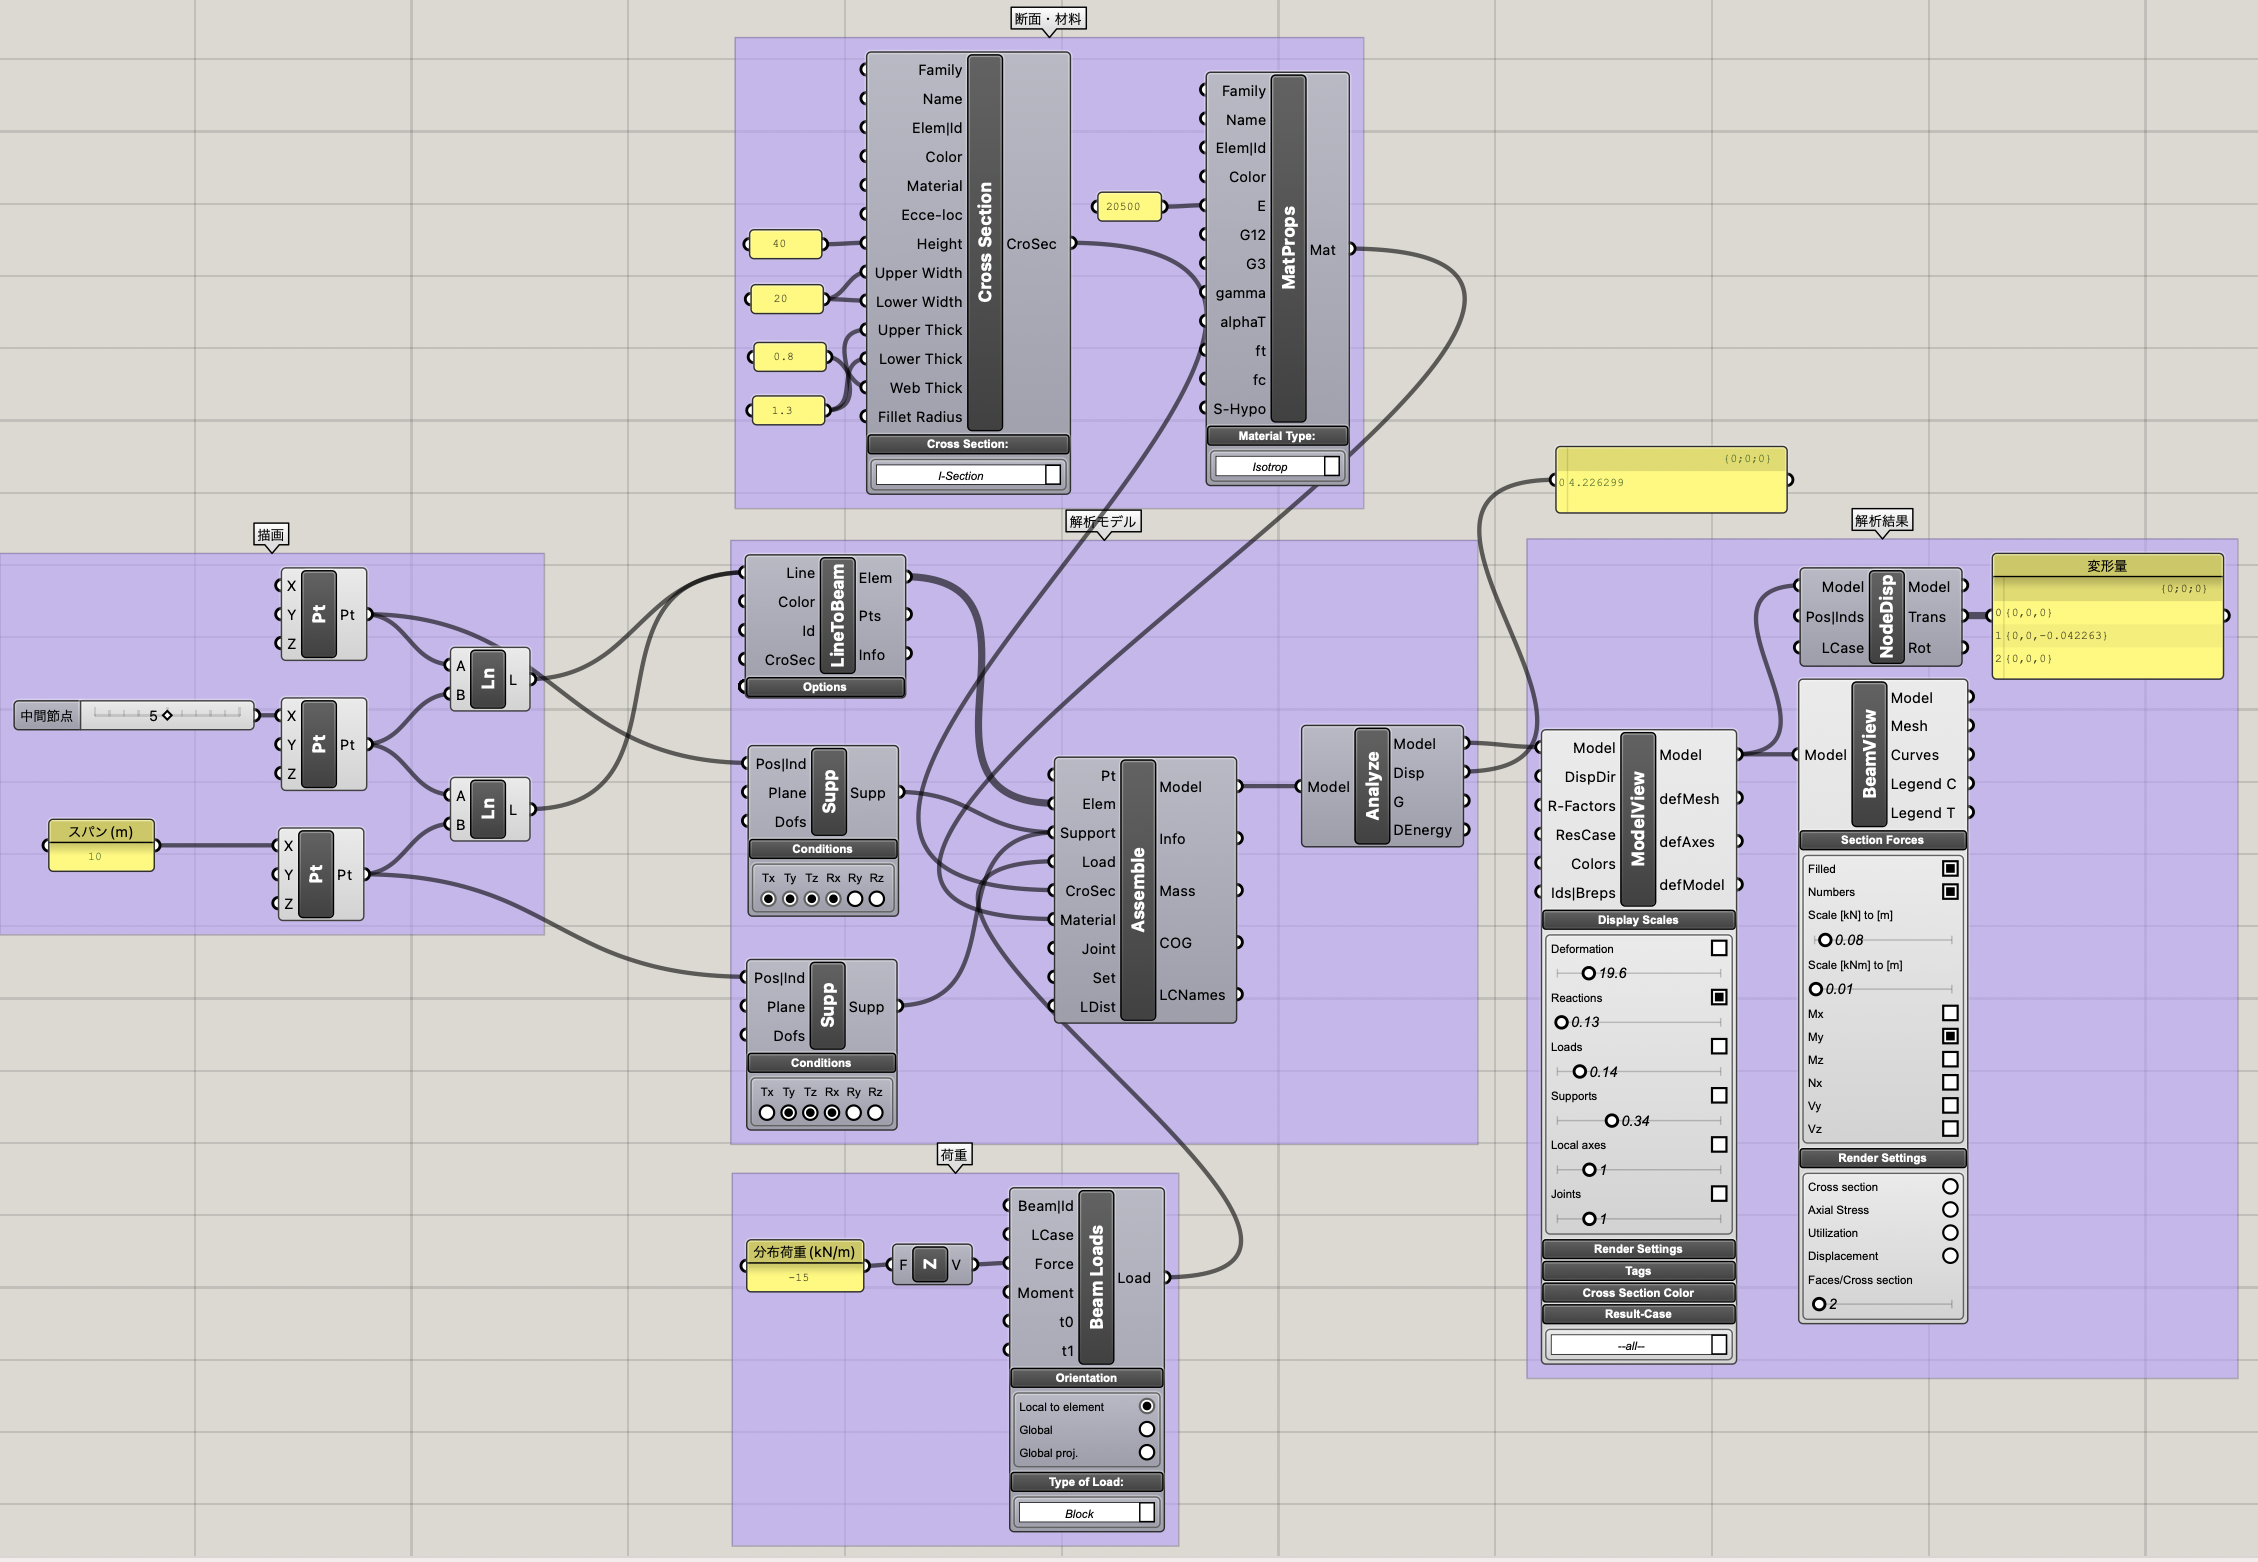
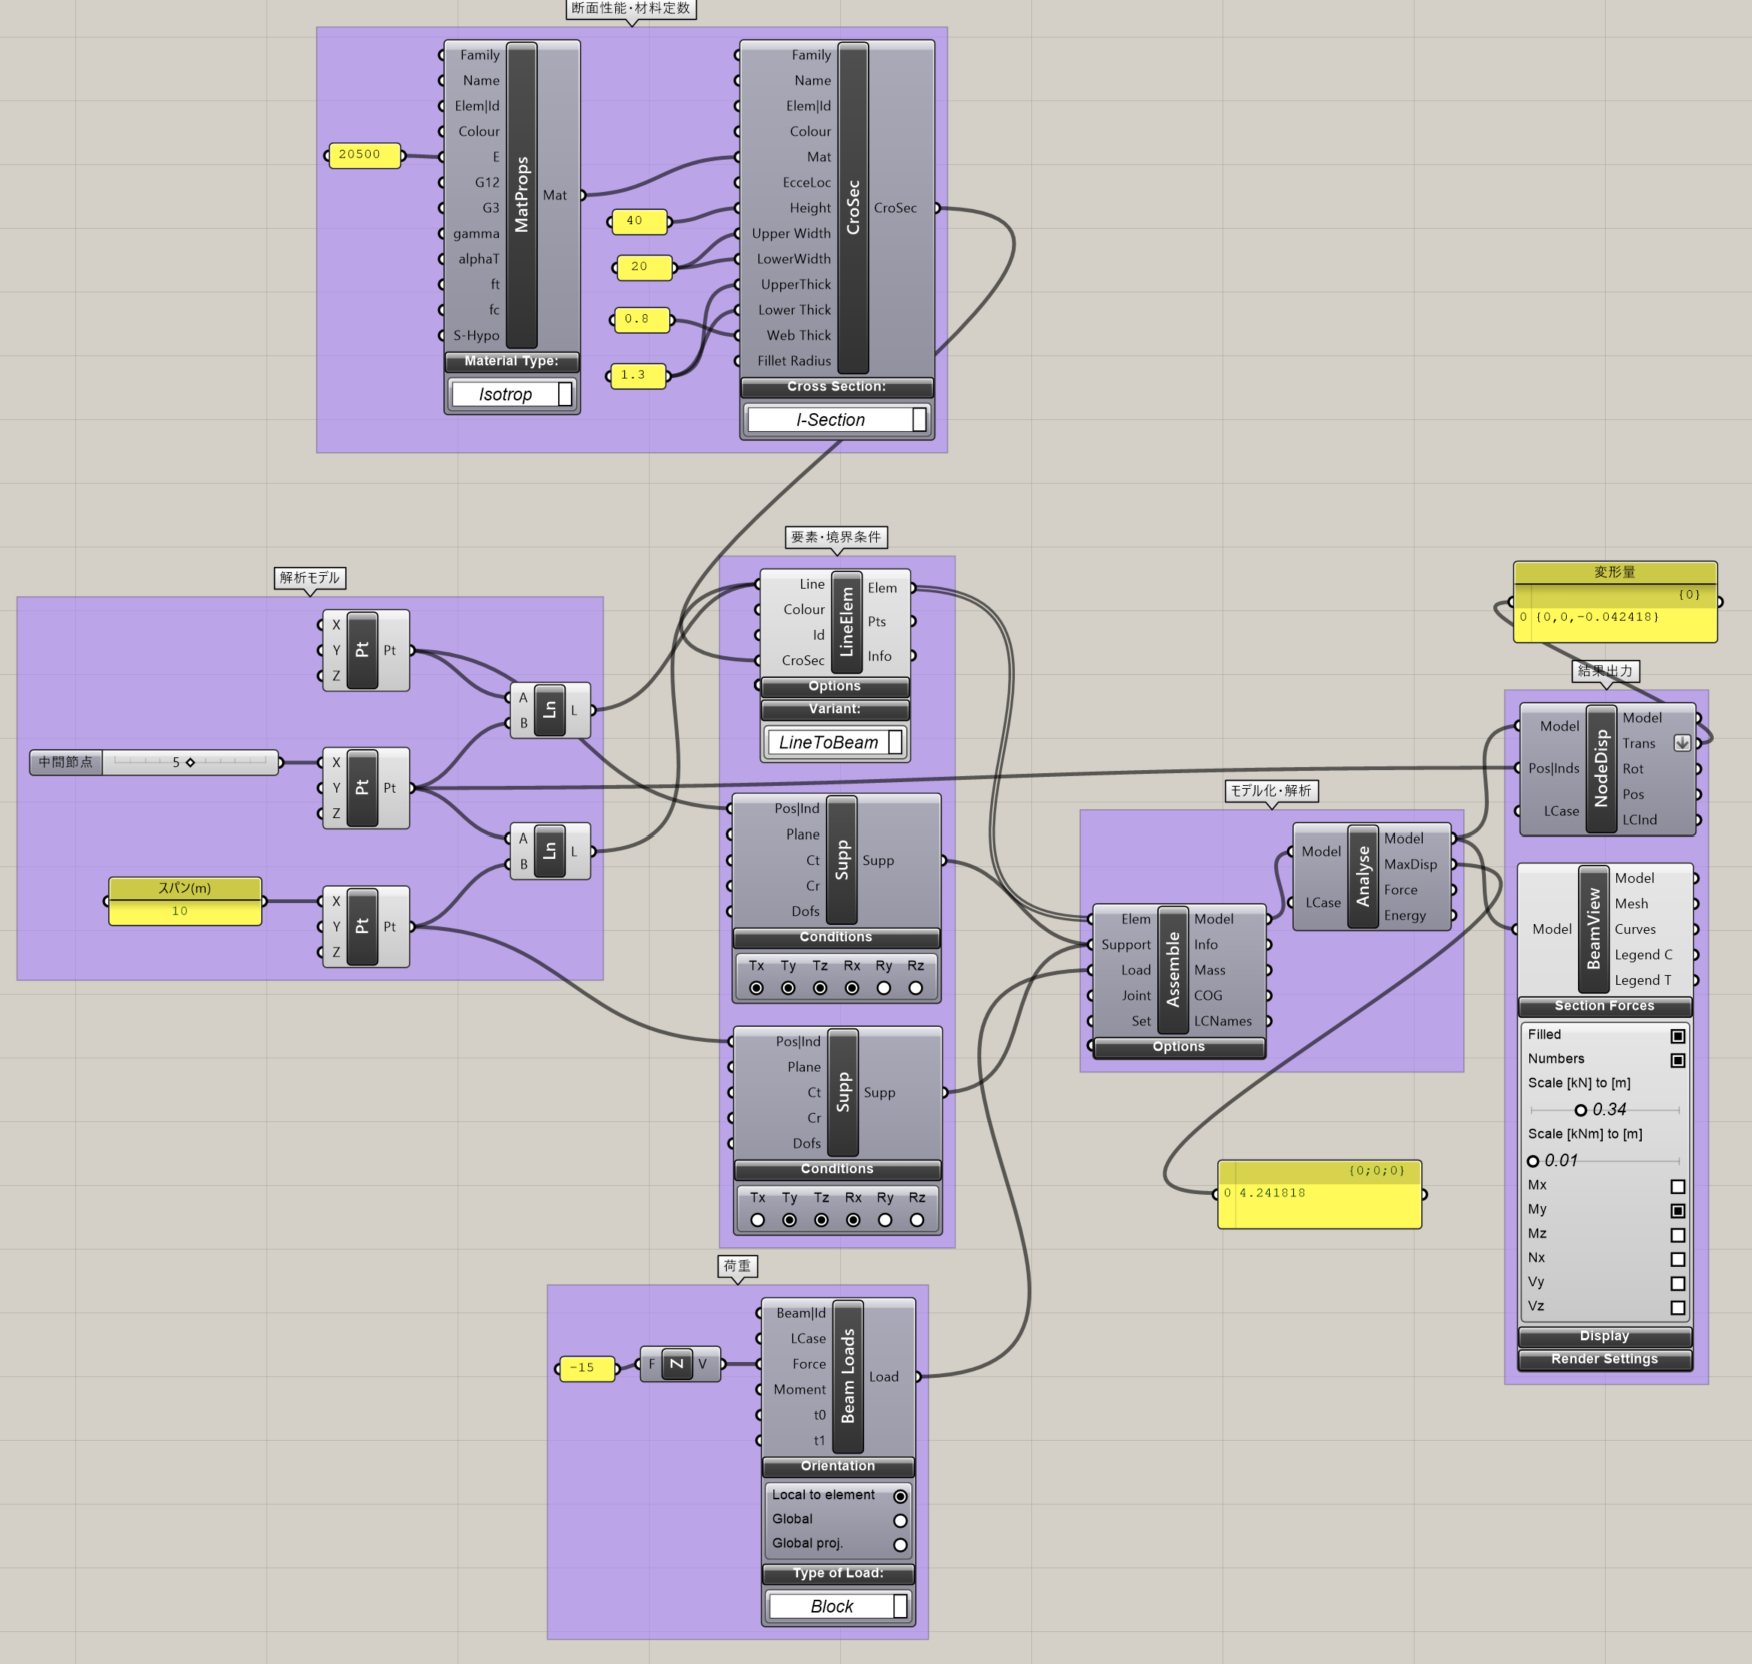
fig1.4更新 karamba Ver3.1に対応

diff --git a/構造第1回/exercise_s01.md b/構造第1回/exercise_s01.md
@@ -109,26 +109,6 @@ grasshopperはパラメトリックに座標や部材断面を変更すること
 ![](img/fig1-4.png)
 
 
-使用コンポーネント
-
-・Support(Karamba3D → Model)
-
-・LineToBeam(Karamba3D → Model)
-
-・MaterialSection(Karamba3D → Materials)
-
-・CrossSection(Karamba3D → Cross Section)
-
-・Loads(Karamba3D → Load)
-
-・Assemble(Karamba3D → Algorithms)
-
-・Analyze(Karamba3D → Algorithms)
-
-・Model View(Karamba3D → Results)
-
-・Beam View(Karamba3D → Results)
-
 # 4. 検証
 
 解析結果が出たら支点反力、中央の曲げモーメント及び中央の変形量について検証を行います。
